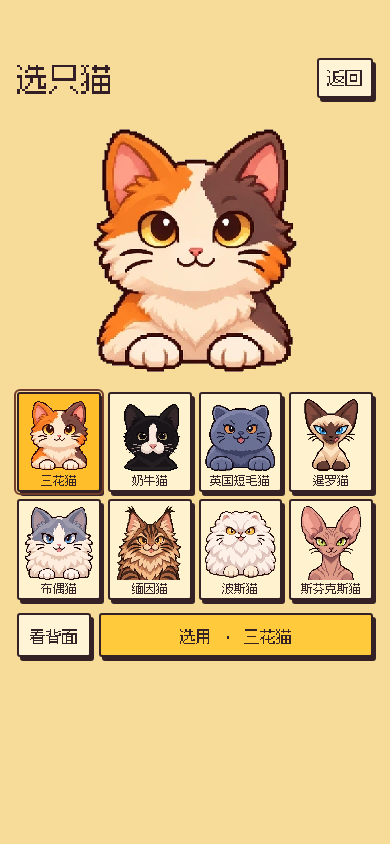
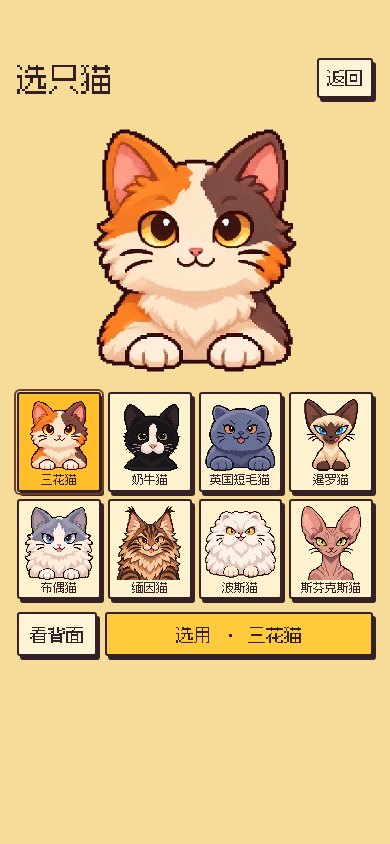
Refresh showcase screenshots from latest r13 build (cover, select, cats, vanity, receipt, leaderboard)

diff --git a/README.md b/README.md
@@ -25,13 +25,13 @@ Prop your phone up in front of you, raise both hands, and each hand controls a c
 
 ## Screenshots / 游戏画面
 
-| Cover / 封面 | Select a Cat / 选只猫 | Vanity Table / 梳妆台 |
+| Cover / 封面 | Stage Select / 选关 | Select a Cat / 选只猫 |
 | :---: | :---: | :---: |
-| <img src="assets/cover-mobile.png" alt="Mobile Cover" width="220" /> | <img src="assets/cats.png" alt="Cat Picker" width="220" /> | <img src="assets/vanity.png" alt="Vanity Table" width="220" /> |
+| <img src="assets/cover-mobile.png" alt="Mobile Cover" width="220" /> | <img src="assets/select.png" alt="Stage Select" width="220" /> | <img src="assets/cats.png" alt="Cat Picker" width="220" /> |
 
-| Hand Feeding / 接投喂 | Flower Petals / 摘花瓣 | Space Station / 太空站 |
+| Vanity Table / 梳妆台 | Workout Receipt / 结算小票 | Leaderboard / 排行榜 |
 | :---: | :---: | :---: |
-| <img src="assets/feeding.png" alt="Hand Feeding" width="220" /> | <img src="assets/petals.png" alt="Flower Petals" width="220" /> | <img src="assets/space.png" alt="Space Station" width="220" /> |
+| <img src="assets/vanity.png" alt="Vanity Table" width="220" /> | <img src="assets/result.png" alt="Workout Receipt" width="220" /> | <img src="assets/board.png" alt="Leaderboard" width="220" /> |
 
 ---
 
